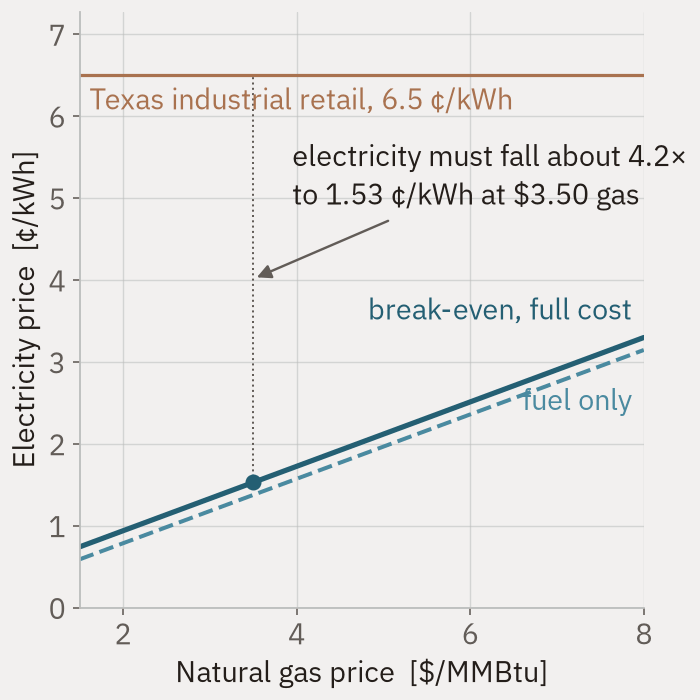
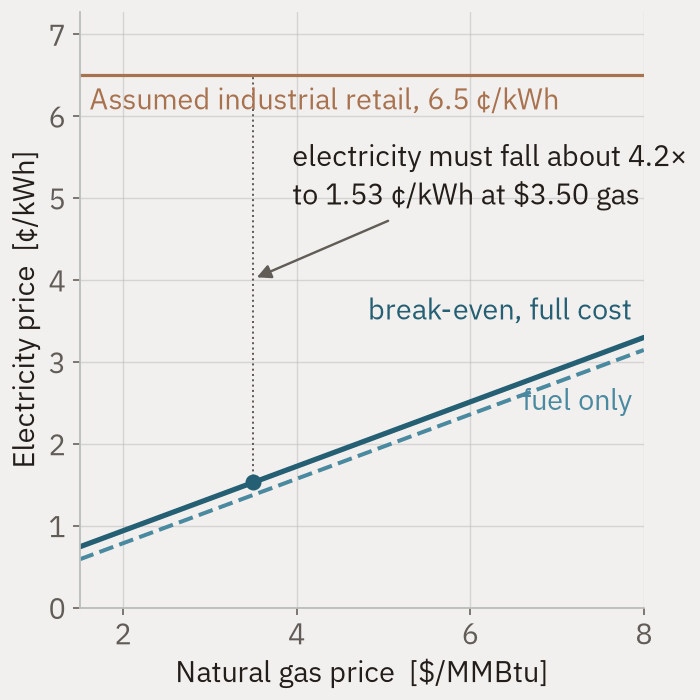
R0 D-19: heat wording and citation corrections

Changed region(s): [[0.12, 0.12, 0.81, 0.18]]

diff --git a/heat.html b/heat.html
@@ -22,7 +22,7 @@ try{document.documentElement.dataset.motion=matchMedia('(prefers-reduced-motion:
 <h1>Industrial heat electrification break-even</h1>
 <p class="dim">Levelised cost of heat from a resistive electric boiler<sup class="cite" id="cr1"><a href="#ref1">1</a></sup> against a
 natural-gas boiler, for process steam in Texas.</p>
-<aside class="marginalia" style="grid-row: span 31" aria-label="On this page"><p class="lab">On this page</p><ul><li><b>gas heat</b><span class="v">5.13&nbsp;dollars/MMBtu</span></li><li><b>break-even</b><span class="v">1.53&nbsp;cents/kWh</span></li><li><b>today</b><span class="v">6.5&nbsp;cents to $20.00</span></li><li><b>fuel-only break-even</b><span class="v">1.38&nbsp;c/kWh</span></li><li><b>capital ±50%</b><span class="v">break-even ±0.15&nbsp;c</span></li><li><b>emissions parity</b><span class="v">0.209&nbsp;t CO2/MWh</span></li></ul></aside>
+<aside class="marginalia" style="grid-row: span 31" aria-label="On this page"><p class="lab">On this page</p><ul><li><b>gas heat</b><span class="v">5.13&nbsp;dollars/MMBtu</span></li><li><b>break-even</b><span class="v">1.53&nbsp;cents/kWh</span></li><li><b>assumed</b><span class="v">6.5&nbsp;cents to $20.00</span></li><li><b>fuel-only break-even</b><span class="v">1.38&nbsp;c/kWh</span></li><li><b>capital ±50%</b><span class="v">break-even ±0.08&nbsp;c</span></li><li><b>emissions parity</b><span class="v">0.209&nbsp;t CO2/MWh</span></li></ul></aside>
 <aside class="marginalia right" style="grid-row: span 31"><ul><li><b>ERCOT grid</b><span class="v">0.333&nbsp;t CO2/MWh</span></li><li><b>electric boiler</b><span class="v">99.6&nbsp;kg/MMBtu</span></li><li><b>gas boiler</b><span class="v">62.4&nbsp;kg/MMBtu</span></li><li><b>gas fuel</b><span class="v">$4.12&nbsp;of $5.13</span></li><li><b>electric fuel</b><span class="v">$19.44&nbsp;of $20.00</span></li></ul></aside>
 
 <p>A chemical plant that wants to stop burning gas for process steam has one
@@ -42,9 +42,9 @@ million British thermal units and electric heat about <strong>$20.00</strong>.
 The break-even electricity price is about <strong>1.53 cents per kilowatt
 hour</strong>, or 1.38 cents if only fuel is counted.</p>
 
-<p>That threshold barely moves. Swinging capital cost and fixed operations across
-a range of plus or minus fifty per cent shifts the break-even by roughly 0.15
-cents per kilowatt hour. The spark gap, meaning the ratio between the
+<p>That threshold barely moves. Plus or minus fifty per cent on capital cost
+moves the break-even by under a tenth of a cent per kilowatt hour; leaving
+capital and operations out altogether moves it 0.15. The spark gap, meaning the ratio between the
 electricity price and the gas price, decides the outcome almost by itself.
 Arguments about equipment cost are arguments about the wrong variable.</p>
 
@@ -63,13 +63,13 @@ per million Btu against the gas boiler&rsquo;s 62.4.</p>
 </picture>
 <p class="small">Where the money goes in each route. Fuel is almost the whole
 bar on both sides: $4.12 of the gas boiler&rsquo;s $5.13, and $19.44 of the
-electric boiler&rsquo;s $20.00. Capital and fixed operations come to $1.02 on
+electric boiler&rsquo;s $20.00. Capital and fixed operations come to $1.01 on
 the gas side and $0.56 on the electric, which is why the break-even below moves
 with the two fuel prices and almost nothing else.</p>
 
 <picture>
-<source media="(max-width:760px)" srcset="assets/heat_fig1_breakeven_price-phone.png?v=39d92739" width="700" height="700">
-<img class="fig wide" src="assets/heat_fig1_breakeven_price.png?v=04b42567" loading="lazy" width="1428" height="803" alt="Break-even electricity price as a function of the gas price. The line is the locus where the two routes cost the same; below it the electric boiler wins.">
+<source media="(max-width:760px)" srcset="assets/heat_fig1_breakeven_price-phone.png?v=3208d528" width="700" height="700">
+<img class="fig wide" src="assets/heat_fig1_breakeven_price.png?v=2bd0a6ec" loading="lazy" width="1428" height="803" alt="Break-even electricity price as a function of the gas price. The line is the locus where the two routes cost the same; below it the electric boiler wins.">
 </picture>
 <p class="small">Break-even electricity price as a function of the gas price. The line is the locus where the two routes cost the same; below it the electric boiler wins.</p>
 
@@ -93,9 +93,9 @@ with the two fuel prices and almost nothing else.</p>
 
 
 <h2>Method</h2>
-<p>The levelised cost<sup class="cite" id="cr4"><a href="#ref4">4</a></sup> is built from an annualised capital charge, fixed and
-variable operations, and fuel, divided by annual delivered heat. Boiler
-efficiency is applied on the gas side, conversion and distribution losses on the
+<p>The levelised cost<sup class="cite" id="cr4"><a href="#ref4">4</a></sup> is built from an annualised capital charge, fixed
+operations, and fuel, divided by annual delivered heat. Boiler
+efficiency is applied on the gas side, conversion efficiency on the
 electric side. The workbook carries the same arithmetic in live formulas, so the
 assumptions can be edited without touching code. The Python implementation is
 the reference for the other ports.</p>
@@ -139,7 +139,7 @@ data. Each model runs from its own <code>README.md</code>.</p>
 
 
 <h2>Sources</h2>
-<ol class="refs"><li id="ref1"><span class="src">Zuberi, Hasanbeigi &amp; Morrow, <i>Electrification of industrial process heat</i>, Lawrence Berkeley National Laboratory, 2021.</span><span class="what">Electric boiler efficiency and capital cost ranges.</span></li><li id="ref2"><span class="src">U.S. Energy Information Administration, <i>Electric Power Monthly</i> Table 5.6.A and the Natural Gas Industrial Price series.</span><span class="what">The series to use for Texas industrial electricity and gas prices. The shipped run does not: its two prices are placeholders set in <code>heat/model.py</code>.</span></li><li id="ref3"><span class="src">U.S. EPA, <i>eGRID2023</i> (revised 12 June 2025), ERCT subregion output emission rates; and EPA, <i>Emission Factors for Greenhouse Gas Inventories</i>, stationary combustion.</span><span class="what">Grid carbon intensity, 733.862 lb CO&#8322;/MWh or 0.333 t/MWh, and the natural gas emission factor. The CO&#8322; rate is used rather than the CO&#8322;e rate, because the gas factor it is compared against is also carbon dioxide only.</span></li><li id="ref4"><span class="src">NREL, <i>Annual Technology Baseline</i> 2024, financial assumptions.</span><span class="what">Discount rate, economic life and the levelisation method.</span></li></ol>
+<ol class="refs"><li id="ref1"><span class="src">Zuberi, Hasanbeigi &amp; Morrow, <i>Electrification of Boilers in U.S. Manufacturing</i>, Lawrence Berkeley National Laboratory, LBNL-2001436, November 2021.</span><span class="what">Electric boiler efficiency and capital cost ranges, and the twenty-year economic life.</span></li><li id="ref2"><span class="src">U.S. Energy Information Administration, <i>Electric Power Monthly</i> Table 5.6.A and the Natural Gas Industrial Price series.</span><span class="what">The series to use for Texas industrial electricity and gas prices. The shipped run does not: its two prices are placeholders set in <code>heat/model.py</code>.</span></li><li id="ref3"><span class="src">U.S. EPA, <i>eGRID2023</i> (revised 12 June 2025), ERCT subregion output emission rates; and EPA, <i>Emission Factors for Greenhouse Gas Inventories</i>, stationary combustion.</span><span class="what">Grid carbon intensity, 733.862 lb CO&#8322;/MWh or 0.333 t/MWh, and the natural gas emission factor. The CO&#8322; rate is used rather than the CO&#8322;e rate, because the gas factor it is compared against is also carbon dioxide only.</span></li><li id="ref4"><span class="src">NREL, <i>Annual Technology Baseline</i> 2024, financial assumptions.</span><span class="what">The eight per cent discount rate.</span></li></ol>
 
 <footer>
 <p><a href="about.html">Andrew Silvestri</a></p>
